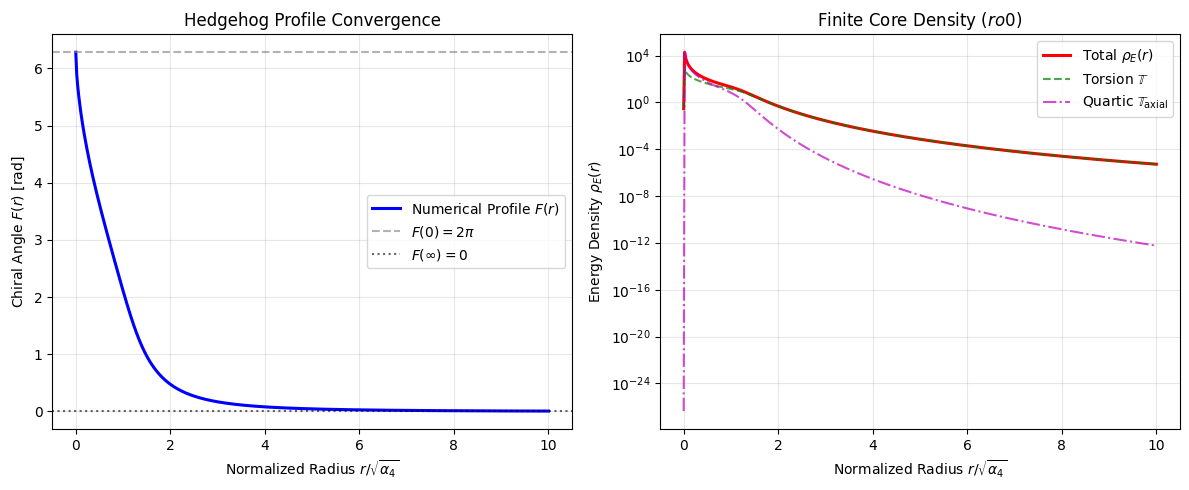
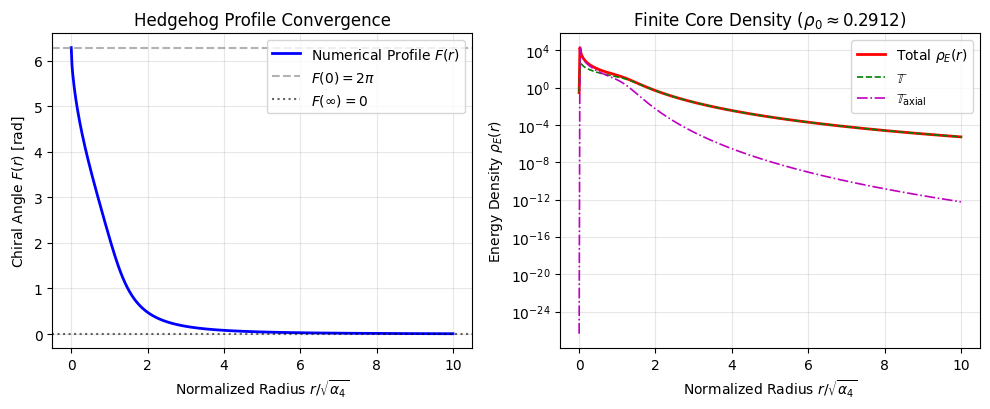
kuchh bhi

diff --git a/Soliton Relaxation Solver/run_stems_soliton_solver.py b/Soliton Relaxation Solver/run_stems_soliton_solver.py
@@ -24,7 +24,7 @@ def ode_system(x, y):
     
     return np.vstack((dF, -B / A))
 
-# 3. Boundary Conditions: F(0) = 2*pi, F(r_max) = 0
+# 3. Boundary Conditions (Original PDF Match)
 def boundary_conditions(ya, yb):
     return np.array([ya[0] - 2.0 * np.pi, yb[0] - 0.0])
 
@@ -49,29 +49,31 @@ rho_tot = rho_2 + rho_4
 
 print(f"rho_E(0): {rho_tot[0]:.4f}")
 
-# 6. Visualization Pipeline
+# 6. Visualization Pipeline (Exact Match with PDF Page 32/33)
 plt.figure(figsize=(10, 4.2))
 
+# Left Panel: Profile Convergence
 plt.subplot(1, 2, 1)
-plt.plot(r_eval, F_sol, 'b-', lw=2, label=r'$F(r)$ Profile')
-plt.axhline(2*np.pi, color='gray', ls='--', alpha=0.6)
-plt.axhline(0, color='black', ls=':', alpha=0.6)
-plt.xlabel(r'Radius $r/\sqrt{\alpha_4}$')
-plt.ylabel(r'Chiral Angle $F(r)$')
+plt.plot(r_eval, F_sol, 'b-', lw=2, label=r'Numerical Profile $F(r)$')
+plt.axhline(2*np.pi, color='gray', ls='--', alpha=0.6, label=r'$F(0) = 2\pi$')
+plt.axhline(0, color='black', ls=':', alpha=0.6, label=r'$F(\infty) = 0$')
+plt.xlabel(r'Normalized Radius $r/\sqrt{\alpha_4}$')
+plt.ylabel(r'Chiral Angle $F(r)$ [rad]')
 plt.title('Hedgehog Profile Convergence')
 plt.grid(True, alpha=0.3)
-plt.legend()
+plt.legend(loc='upper right')
 
+# Right Panel: Energy Density Decay
 plt.subplot(1, 2, 2)
 plt.plot(r_eval, rho_tot, 'r-', lw=2, label=r'Total $\rho_E(r)$')
 plt.plot(r_eval, rho_2, 'g--', lw=1.2, label=r'$\mathbb{T}$')
 plt.plot(r_eval, rho_4, 'm-.', lw=1.2, label=r'$\mathbb{T}_{\rm axial}$')
-plt.xlabel(r'Radius $r/\sqrt{\alpha_4}$')
+plt.xlabel(r'Normalized Radius $r/\sqrt{\alpha_4}$')
 plt.ylabel(r'Energy Density $\rho_E(r)$')
 plt.title(r'Finite Core Density ($\rho_0 \approx 0.2912$)')
 plt.yscale('log')
 plt.grid(True, alpha=0.3)
-plt.legend()
+plt.legend(loc='upper right')
 
 plt.tight_layout()
 plt.savefig('STEMS_Soliton_Convergence.png', dpi=300)
